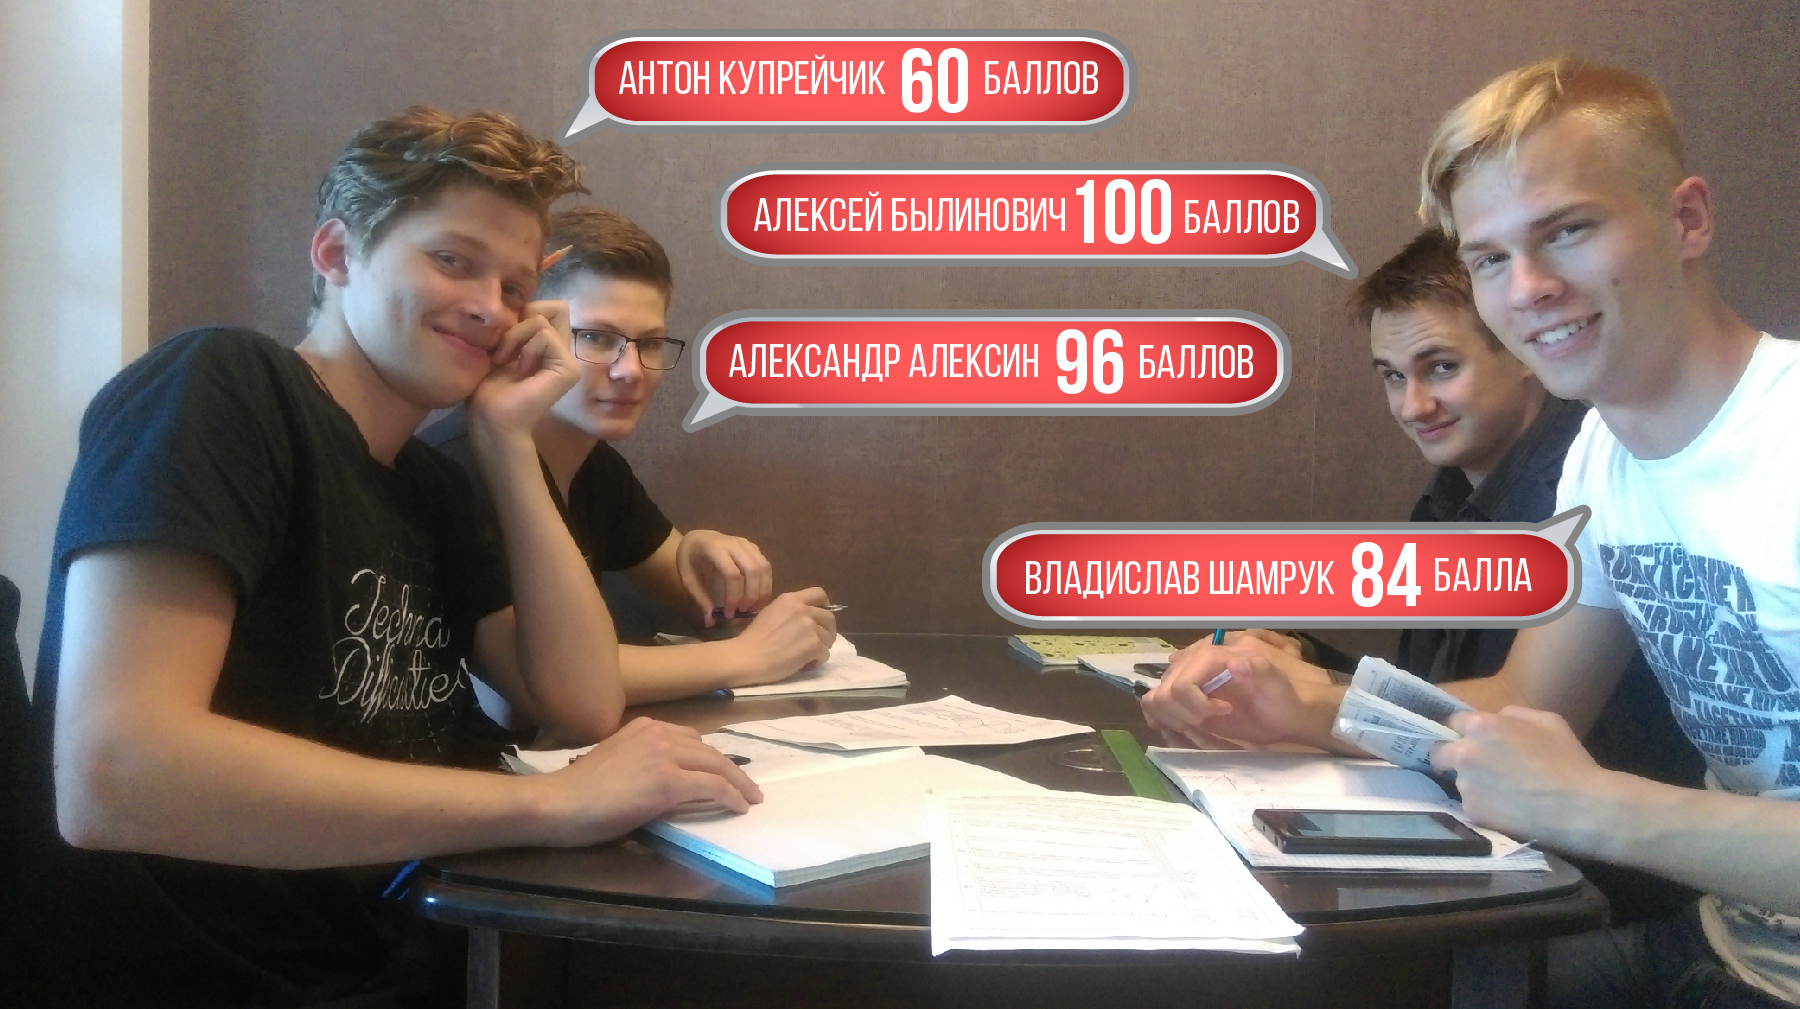
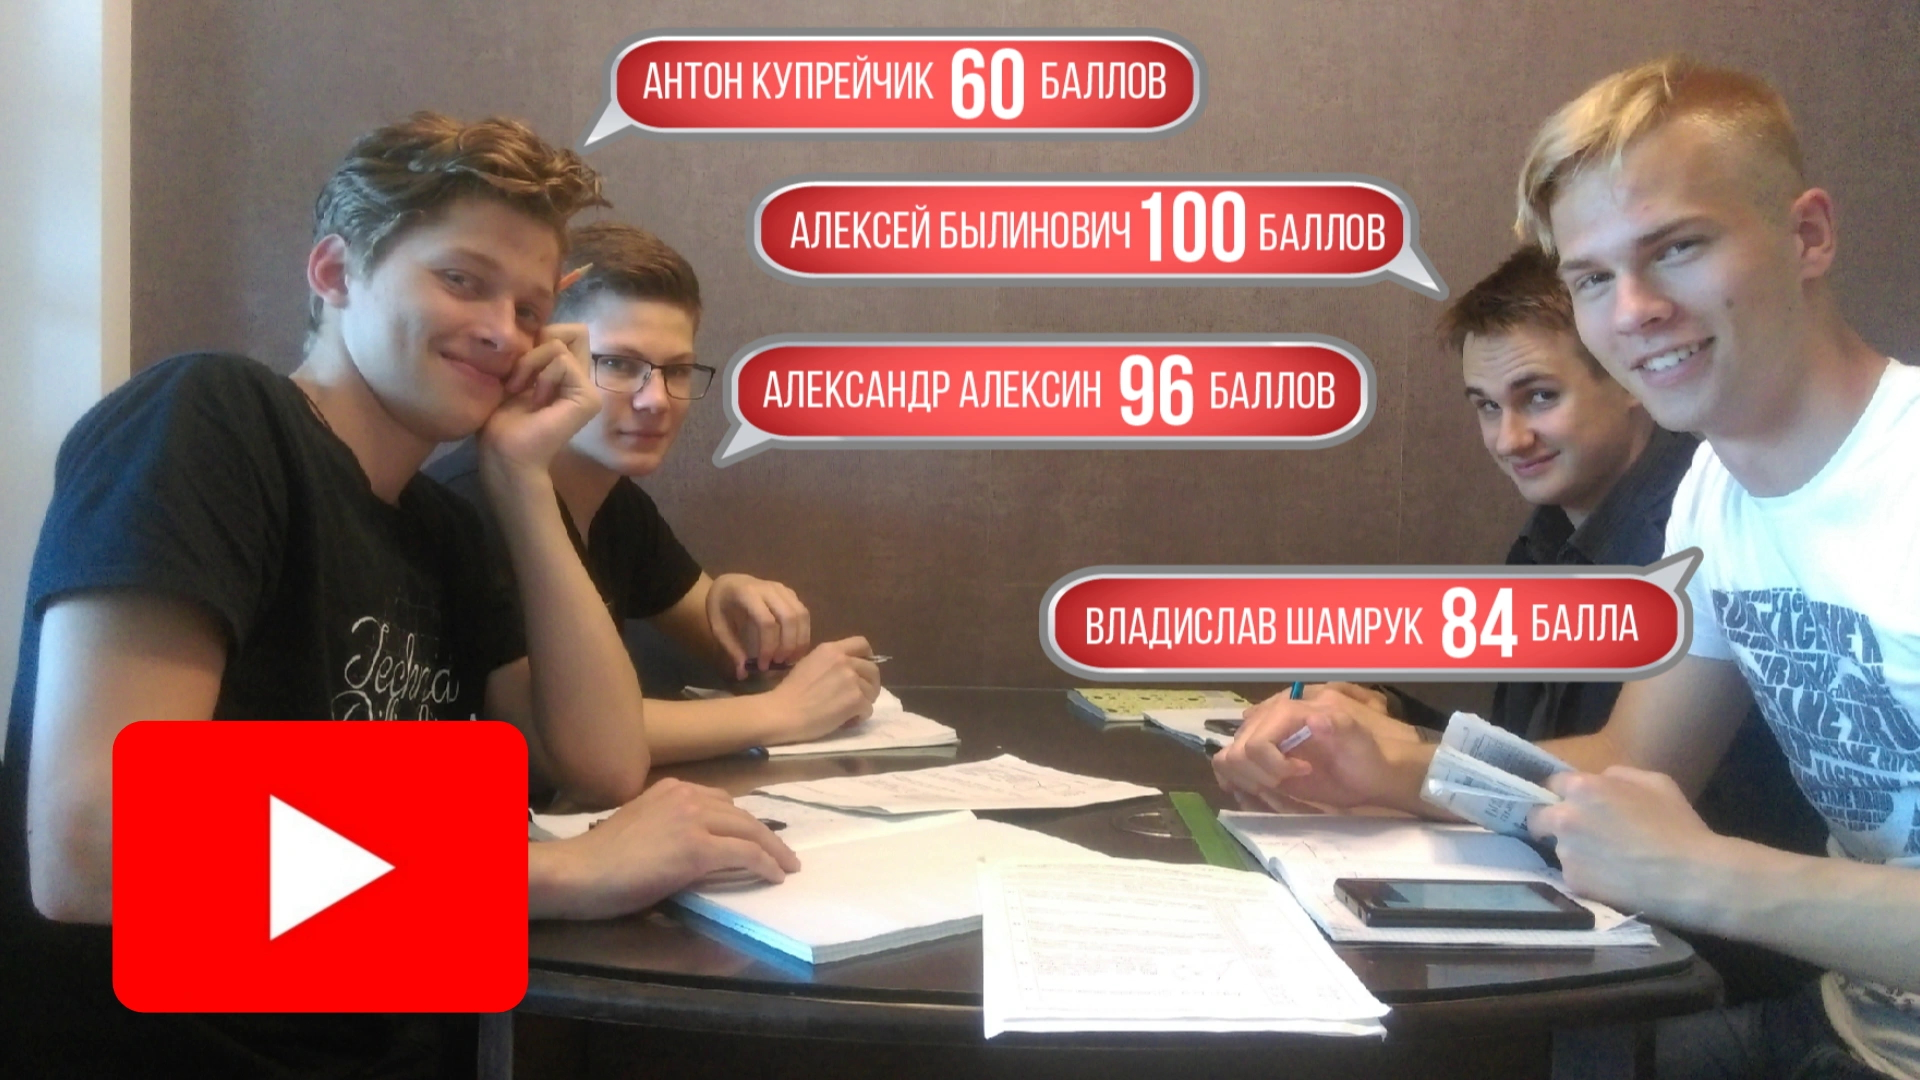
M-120. Updated photos and updated and added YouTube links.

diff --git a/index.html b/index.html
@@ -340,14 +340,18 @@
 			</div>
 			<p></p> 
 			<div class="ck"> 
-				<a href="https://youtu.be/n_nD7EeA1Wc" target="_blank"><img alt="Репетитор по математике в Минске"
-					class="image1"  
-					src="images/photo/mathematics_tutor.jpg" 
-					title="Репетитор по математике в Минске"></a>
-				<img alt="Занятия по математике в группах"
-					class="image" 
-					src="images/photo/tutor.jpg" 
-					title="Занятия по математике в группах">
+				<a href="https://youtu.be/EYH5g5kS_xg" target="_blank">
+					<img alt="Репетитор по математике в Минске"
+						class="image1"  
+						src="images/photo/mathematics_tutor.jpg" 
+						title="Репетитор по математике в Минске">
+				</a>
+				<a href="https://youtu.be/n_nD7EeA1Wc" target="_blank">
+					<img alt="Занятия по математике в группах"
+						class="image" 
+						src="images/photo/tutor.jpg" 
+						title="Занятия по математике в группах">
+				</a>
 			</div>
 			<h2 class="main"> 
 				<span class="h21">Основные направления деятельности:</span>
